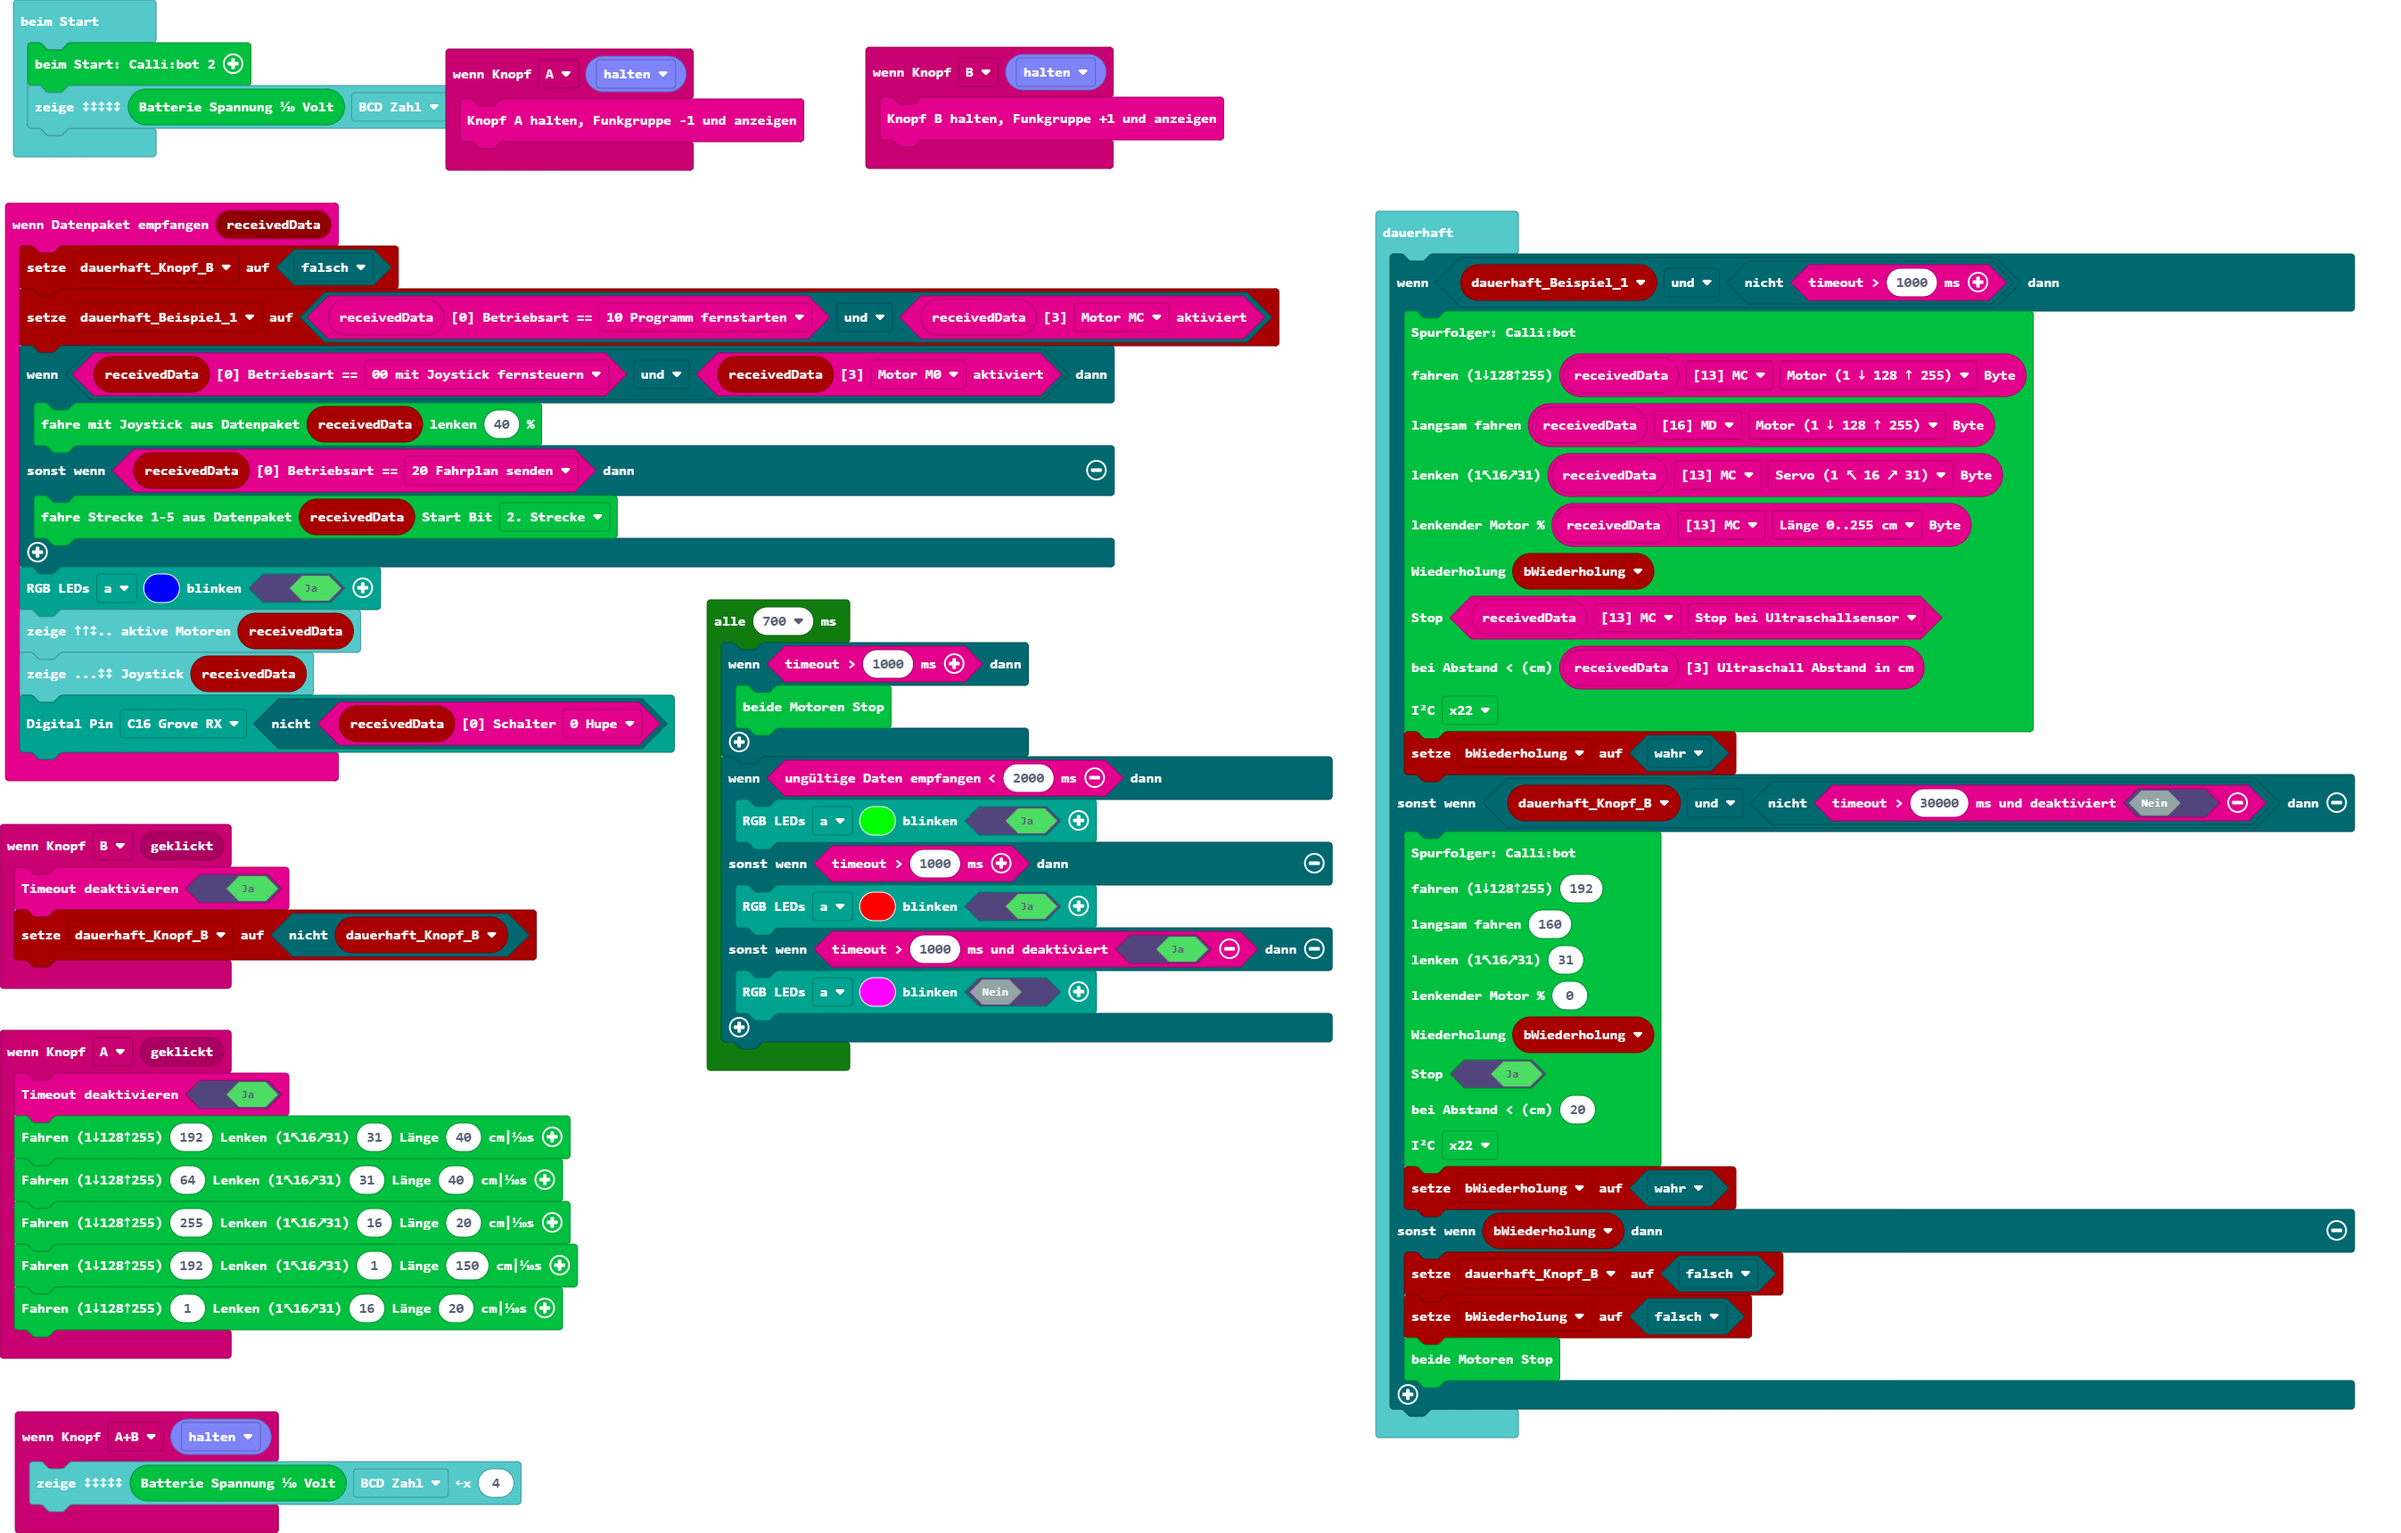
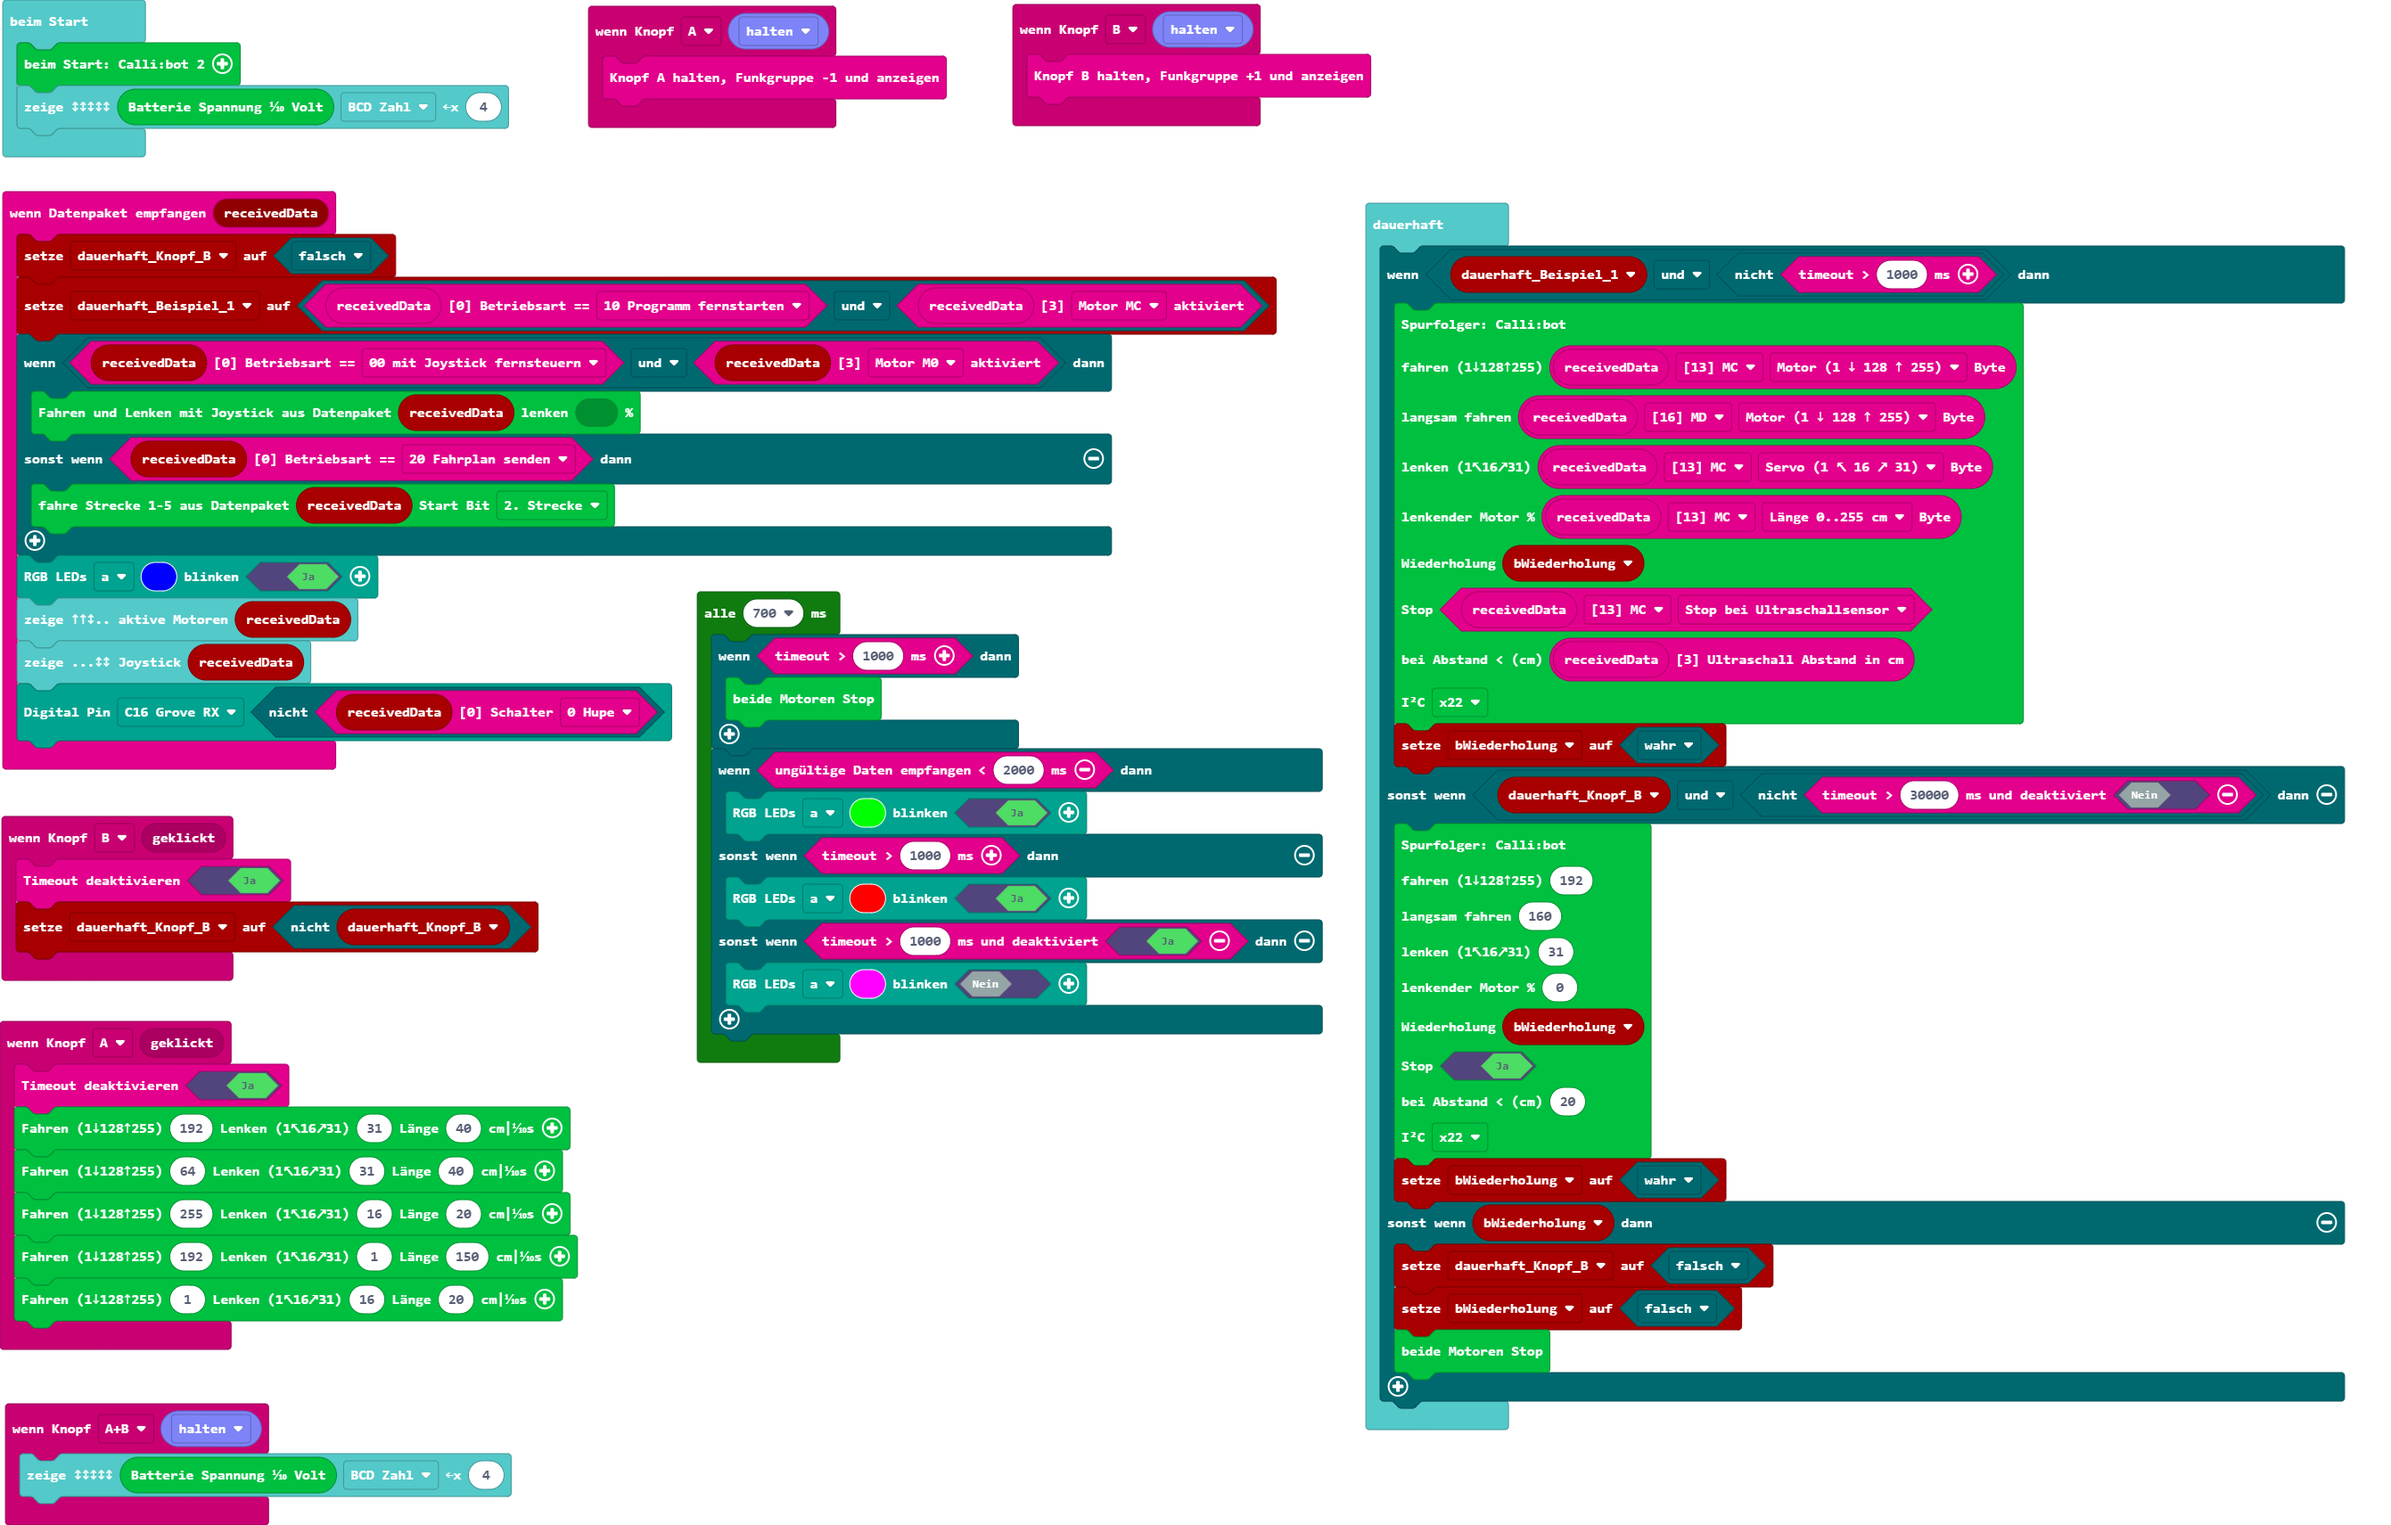
Aktualisiere pxt.json, main.blocks, main.ts

Changed region(s): [[0.0, 0.1239, 0.9903, 0.9293], [0.0, 0.0, 0.588, 0.1239], [0.0, 0.9293, 0.2166, 1.0]]

diff --git a/main.ts b/main.ts
@@ -20,7 +20,7 @@ btf.onReceivedData(function (receivedData) {
     dauerhaft_Knopf_B = false
     dauerhaft_Beispiel_1 = btf.isBetriebsart(btf.btf_receivedBuffer19(), btf.e0Betriebsart.p1Lokal) && btf.getaktiviert(btf.btf_receivedBuffer19(), btf.e3aktiviert.mc)
     if (btf.isBetriebsart(receivedData, btf.e0Betriebsart.p0Fahren) && btf.getaktiviert(receivedData, btf.e3aktiviert.m0)) {
-        cb2.fahreJoystick(receivedData, 40)
+        cb2.fahreJoystick(receivedData, 0)
     } else if (btf.isBetriebsart(receivedData, btf.e0Betriebsart.p2Fahrplan)) {
         cb2.fahreBuffer19(receivedData, btf.e3aktiviert.f2)
     }
